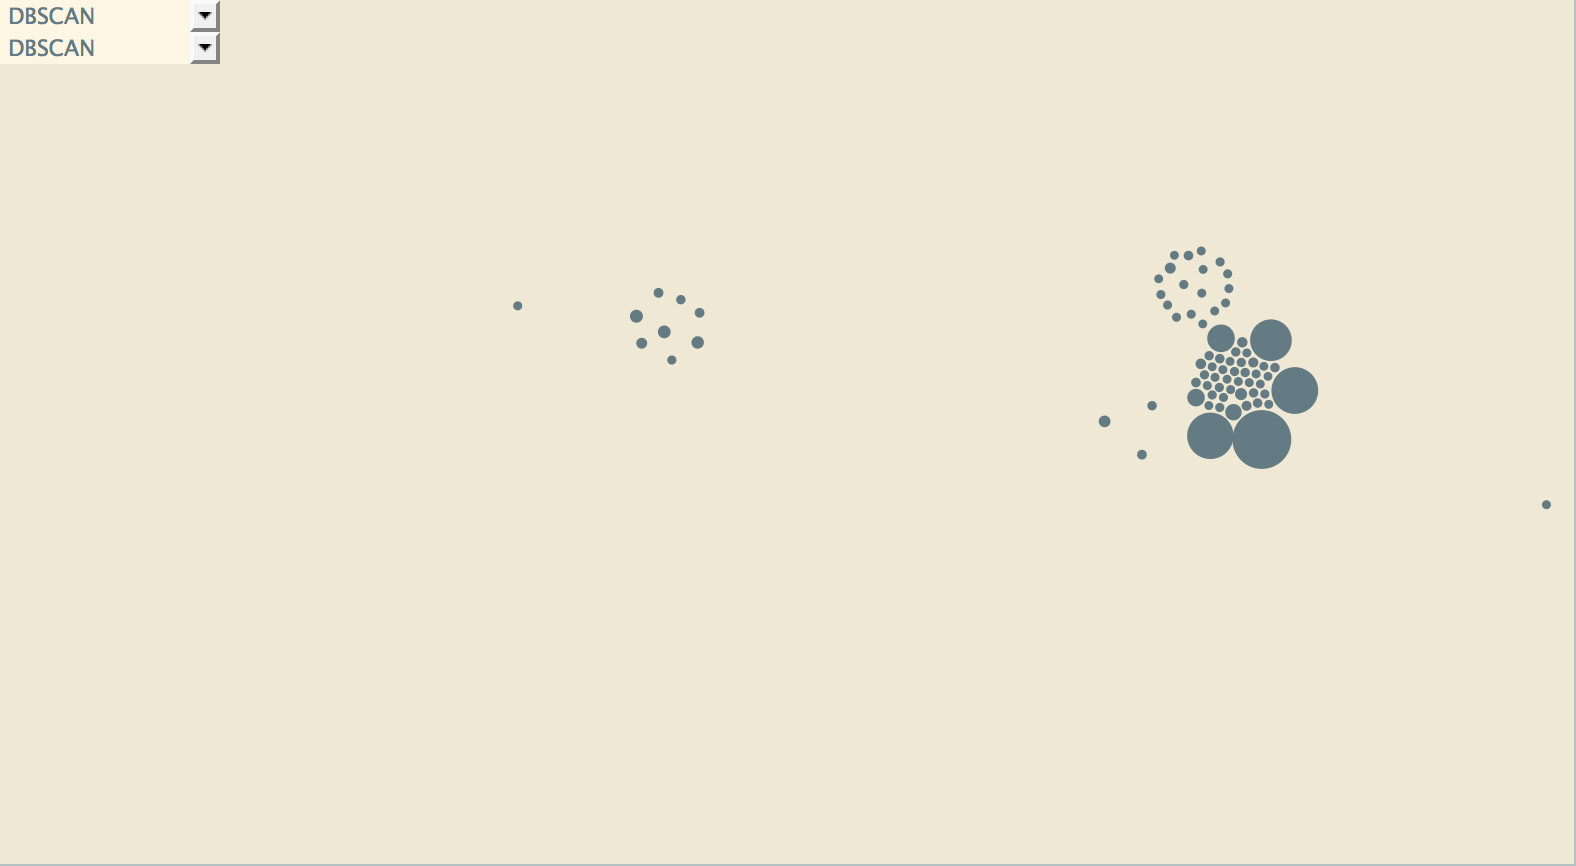
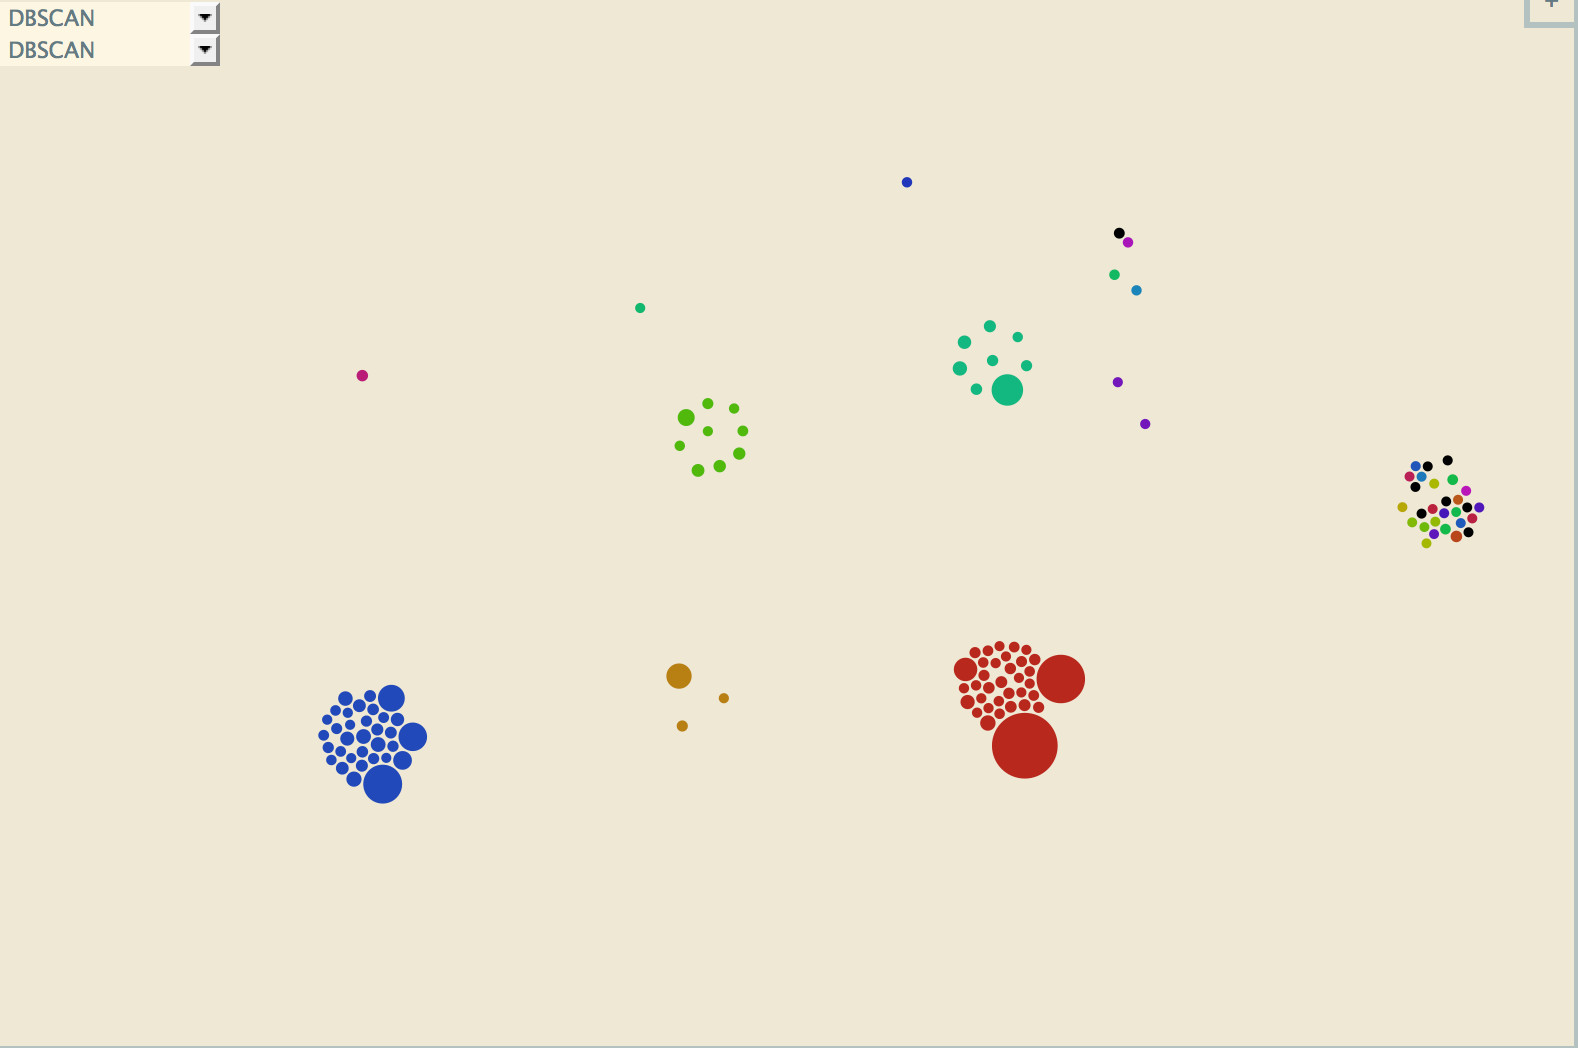
Added screenshots .jpg

diff --git a/Rapport_Stage_Vidjil.tex b/Rapport_Stage_Vidjil.tex
@@ -360,12 +360,13 @@ Les résultats de cette implémentation de l'algorithme DBSCAN en JavaScript von
 	\item{un apport scientifique, axé sur les résultats physiques de l'algorithme en lui-même dans le projet,}
 	\item{ainsi qu'un apport plus axé sur la similitude entre cette nouvelle distribution, et celle créée lors du travail sur la première partie du stage}
 	\end{itemize}
+Aussi, j'ai effectué avec QUnit une série de tests unitaires (voir Figure ? dans l'annexe) permettant de démontrer la fonctionnalité de l'algorithme sur un jeu de tests écrit à la main, et permettant de tester les cas possibles issus d'un jeu de données biologique.
 
 \subsubsection{Apport scientifique et biologique}
 
 L'apport principal de l'implémentation de DBSCAN est de regrouper les clônes similaires par rapport aux distances d'édition précalculées, tout comme la première partie du stage.
 \newline
-Ainsi, cette implémentation permettra au médecin ou au chercheur de pouvoir visualiser directement quels sont les clônes les plus proches les uns des autres, et de pouvoir déceler les clônes ayant subi une mutation au cours du temps (les distances d'édition étant calculées par rapport aux \textit{windows}, marqueur d'évolution temporel) d'un clône déjà étudié.
+Ainsi, cette implémentation permettra au médecin ou au chercheur de pouvoir visualiser directement quels sont les clônes les plus proches les uns des autres - ce qui est visible en \textbf{Figure 5} dans l'annexe, par le rassemblement des clones entre eux, ainsi que la colorisation attribuée à chaque cluster - et de pouvoir déceler les clônes ayant subi une mutation au cours du temps (les distances d'édition étant calculées par rapport aux \textit{windows}, marqueur d'évolution temporel) d'un clône déjà étudié.
 
 \subsubsection{Apport à la première partie du stage}
 
